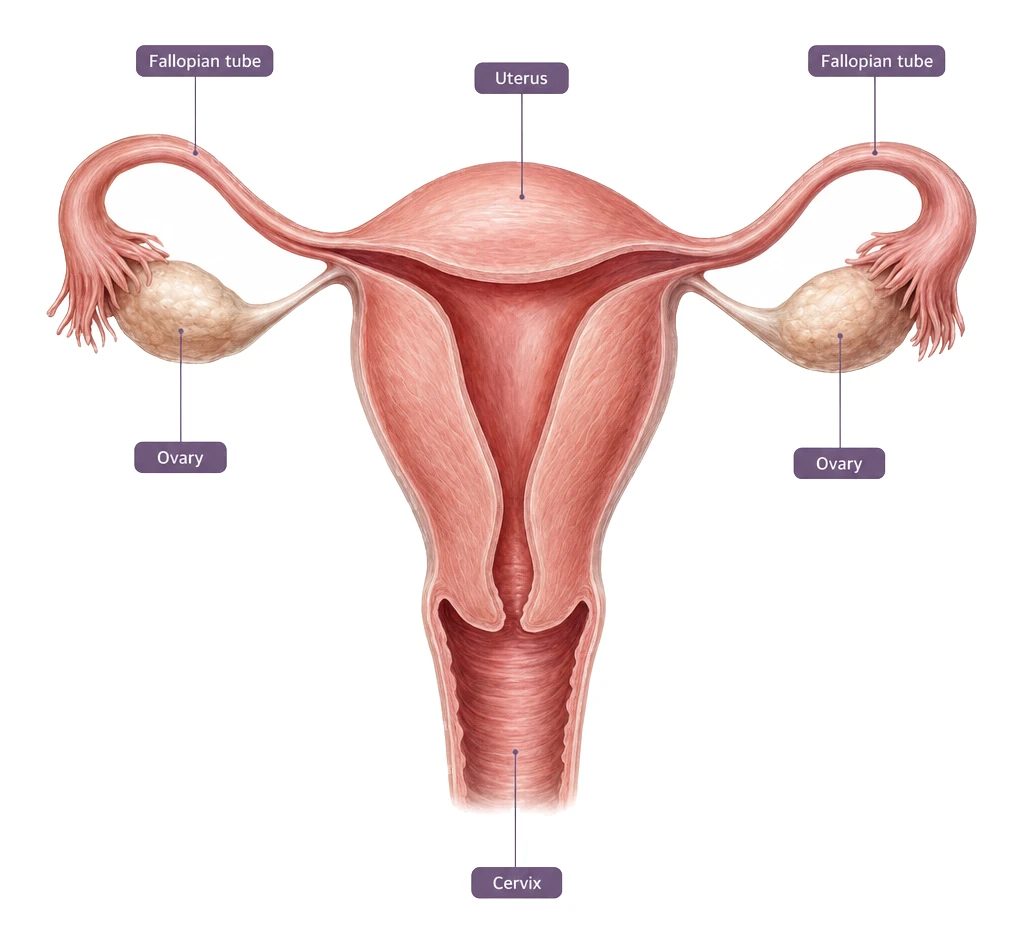
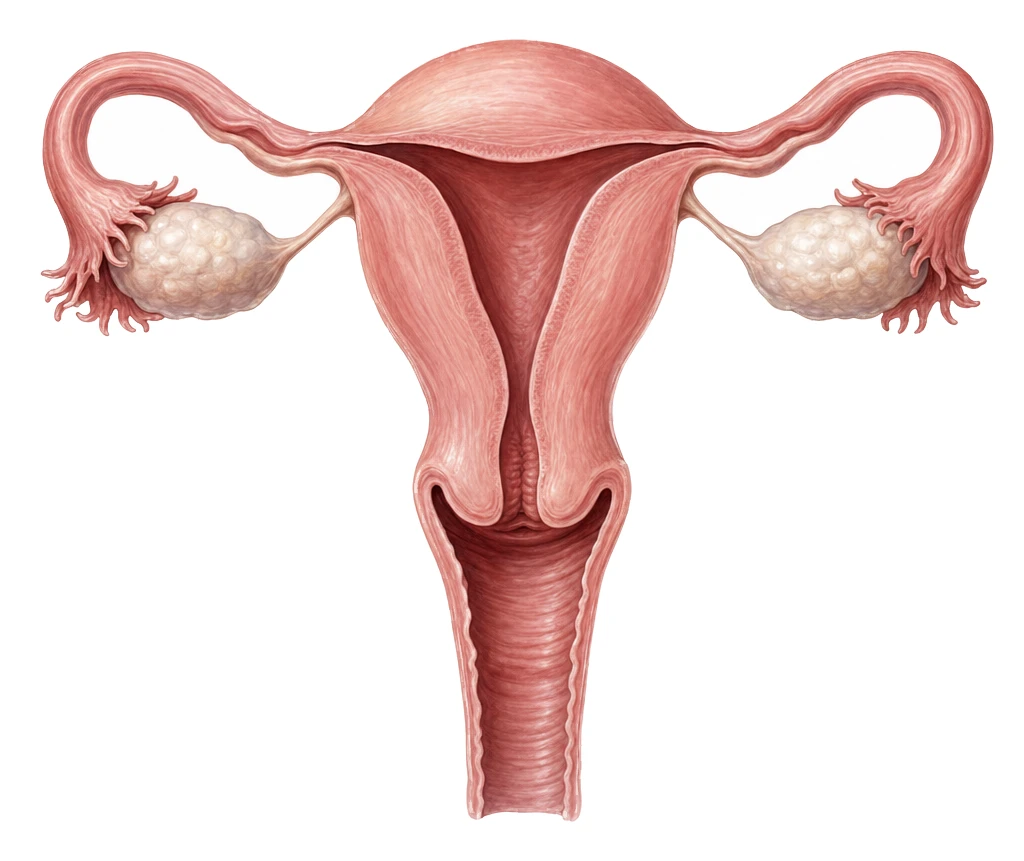
feat: programmatic label layer for anatomical plates
Anatomical register now generates UNLABELED plates; labels, chips, and
leader lines are added deterministically by scripts/label-anatomy.py at
exact, editable coordinates. This removes AI-rendered label text (no
misspellings, no imprecise leader-line placement) -- gpt-image-2 paints
the anatomy, the script does the annotation.

- label-anatomy.py: --grid overlays a 0-100 coordinate grid for picking
  anchor points; --labels renders rounded-rectangle brand-purple chips +
  leader lines from a JSON manifest
- anatomical register style updated to render the anatomy only
- anatomical-01.webp exemplar replaced with an unlabeled plate
- fix: refine() now sets moderation:'low', matching the generate paths
  (was the only path missing it, causing safety-system rejections)

Changed region(s): [[0.0305, 0.0302, 0.9764, 0.9663], [0.7628, 0.453, 0.8848, 0.5134], [0.122, 0.453, 0.2441, 0.5134]]

diff --git a/scripts/label-anatomy.py b/scripts/label-anatomy.py
@@ -1,0 +1,133 @@
+#!/usr/bin/env python3
+"""label-anatomy.py -- programmatic label layer for RRM Academy anatomical plates.
+
+The anatomy is generated UNLABELED by gen-image.mjs (--register anatomical).
+This script adds the labels and leader lines deterministically, so every label
+sits at an exact, editable coordinate with real, crisp text.
+
+Coordinates are PERCENTAGES (0-100) of the image width/height, so a manifest
+is resolution-independent.
+
+  --grid IN.png OUT.png
+      Overlay a 0-100 coordinate grid for picking anchor points by eye.
+
+  --labels IN.png MANIFEST.json OUT.png
+      Render labels. Manifest is a JSON array of:
+        { "text": "Cervix", "anchor": [px, py], "chip": [px, py] }
+      anchor = where the leader line touches the anatomy.
+      chip   = where the centre of the label chip sits.
+
+Usage:
+  label-anatomy.py --grid in.png grid.png
+  label-anatomy.py --labels in.png labels.json out.png
+"""
+import json
+import sys
+from PIL import Image, ImageDraw, ImageFont
+
+BRAND_PURPLE = (114, 94, 126)      # #725e7e
+LEADER = (138, 122, 148)           # muted purple
+WHITE = (255, 255, 255)
+GRID = (150, 150, 160)
+
+FONT_CANDIDATES = [
+    '/System/Library/Fonts/Supplemental/Arial.ttf',
+    '/System/Library/Fonts/Helvetica.ttc',
+    '/Library/Fonts/Arial.ttf',
+]
+
+
+def load_font(size):
+    for path in FONT_CANDIDATES:
+        try:
+            return ImageFont.truetype(path, size)
+        except OSError:
+            continue
+    return ImageFont.load_default()
+
+
+def pct(p, dim):
+    return int(round(p / 100.0 * dim))
+
+
+def run_grid(src, dst):
+    img = Image.open(src).convert('RGB')
+    w, h = img.size
+    d = ImageDraw.Draw(img, 'RGBA')
+    font = load_font(max(11, w // 70))
+    for p in range(0, 101, 5):
+        x, y = pct(p, w), pct(p, h)
+        major = p % 10 == 0
+        ink = GRID + (200 if major else 90,)
+        d.line([(x, 0), (x, h)], fill=ink, width=2 if major else 1)
+        d.line([(0, y), (w, y)], fill=ink, width=2 if major else 1)
+        if major:
+            d.text((x + 3, 3), str(p), fill=GRID, font=font)
+            d.text((3, y + 3), str(p), fill=GRID, font=font)
+    img.save(dst)
+    print(f'grid -> {dst} ({w}x{h})')
+
+
+def rounded_chip(d, cx, cy, text, font):
+    """Draw a rounded brand-purple chip centred at (cx, cy). Returns its bbox."""
+    pad_x, pad_y = 16, 9
+    tb = d.textbbox((0, 0), text, font=font)
+    tw, th = tb[2] - tb[0], tb[3] - tb[1]
+    x0, y0 = cx - tw // 2 - pad_x, cy - th // 2 - pad_y
+    x1, y1 = cx + tw // 2 + pad_x, cy + th // 2 + pad_y
+    # modest corner radius -- a rounded rectangle, not a full pill/capsule
+    d.rounded_rectangle([x0, y0, x1, y1], radius=(y1 - y0) // 4, fill=BRAND_PURPLE)
+    d.text((cx - tw // 2 - tb[0], cy - th // 2 - tb[1]), text, fill=WHITE, font=font)
+    return (x0, y0, x1, y1)
+
+
+def edge_point(bbox, target):
+    """Point on the chip bbox edge closest to `target` -- the leader's chip end."""
+    x0, y0, x1, y1 = bbox
+    cx, cy = (x0 + x1) / 2, (y0 + y1) / 2
+    tx, ty = target
+    ex = min(max(tx, x0), x1)
+    ey = min(max(ty, y0), y1)
+    # snap to the nearest edge so the line starts on the border, not inside
+    if abs(ex - x0) <= abs(ex - x1) and abs(ex - x0) < abs(ey - y0) and abs(ex - x0) < abs(ey - y1):
+        ex = x0
+    elif abs(ex - x1) < abs(ey - y0) and abs(ex - x1) < abs(ey - y1):
+        ex = x1
+    elif abs(ey - y0) <= abs(ey - y1):
+        ey = y0
+    else:
+        ey = y1
+    return (ex, ey)
+
+
+def run_labels(src, manifest_path, dst):
+    img = Image.open(src).convert('RGB')
+    w, h = img.size
+    d = ImageDraw.Draw(img, 'RGBA')
+    font = load_font(max(13, w // 52))
+    labels = json.load(open(manifest_path))
+    for lab in labels:
+        ax, ay = pct(lab['anchor'][0], w), pct(lab['anchor'][1], h)
+        cx, cy = pct(lab['chip'][0], w), pct(lab['chip'][1], h)
+        bbox = rounded_chip(d, cx, cy, lab['text'], font)
+        sx, sy = edge_point(bbox, (ax, ay))
+        d.line([(sx, sy), (ax, ay)], fill=LEADER, width=2)
+        r = 4
+        d.ellipse([ax - r, ay - r, ax + r, ay + r], fill=LEADER)
+    img.save(dst)
+    print(f'labels -> {dst} ({w}x{h}, {len(labels)} labels)')
+
+
+def main():
+    a = sys.argv[1:]
+    if len(a) == 3 and a[0] == '--grid':
+        run_grid(a[1], a[2])
+    elif len(a) == 4 and a[0] == '--labels':
+        run_labels(a[1], a[2], a[3])
+    else:
+        print(__doc__, file=sys.stderr)
+        sys.exit(1)
+
+
+if __name__ == '__main__':
+    main()